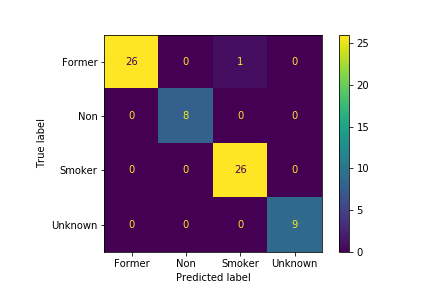
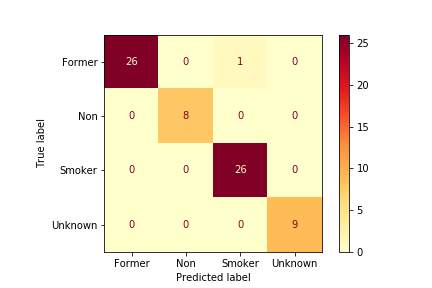
eval edits

diff --git a/eval.py b/eval.py
@@ -1,10 +1,21 @@
 # Evaluate accuracy, precision, recall, and F1 of smokerstatus.py
+
 from sklearn.metrics import accuracy_score, precision_score, recall_score, f1_score
-# from sklearn.metrics import classification_report TRY THIS LATER
+from sklearn.metrics import classification_report
+from sklearn.metrics import confusion_matrix, ConfusionMatrixDisplay
+import matplotlib.pyplot as plt
+from sklearn.metrics import balanced_accuracy_score 
+
+import pandas as pd
 
 
 # import functions
 # from smokerstatus import get_gold
+
+# export statistics as text file
+    # if possible, take all the incorrect instances and include in text file
+
+    # txt file name as csvname-eval.txt
 
 def evaluate_fst(gold_labels, preds, datacsv):
     """
@@ -34,24 +45,16 @@ def evaluate_fst(gold_labels, preds, datacsv):
 
     # --- begin calculations ---
 
-    # accuracy (normalize = True --> fraction of correctly classified samples, 
-    #   vs False -->  number of correctly classified samples)
-    accuracy = accuracy_score(gold_statuses, pred_statuses)
-
-    # balanced accuracy score
-        # average of recall obtained on each class
-        # ** is this appropriate? think about this 
-    # balanced_accuracy = balanced_accuracy_score(gold_statuses, pred_statuses)
-
     # confusion matrix
     cm = confusion_matrix(gold_statuses, pred_statuses)
 
     disp = ConfusionMatrixDisplay(confusion_matrix = cm, 
                     display_labels = ['Former', 'Non', 'Smoker', 'Unknown'])
-    disp.plot() # necessary?
+    disp.plot(cmap="YlOrRd") 
 
+    # save confusion matrix
     data_name = datacsv[:-4]
-    cm_path = data + '-cm.png'
+    cm_path = data_name + '-cm.png'
     plt.savefig(cm_path)
 
     # classification report - precision, recall, F1, support (# of samples for each class)
@@ -66,25 +69,69 @@ def evaluate_fst(gold_labels, preds, datacsv):
                                      target_names = label_names,
                                      output_dict = True)
     classreport_df = pd.DataFrame.from_dict(class_report_dict).transpose()
-    cr_path = data + '-classreport.csv'
+    cr_path = data_name + '-classreport.csv'
     classreport_df.to_csv(cr_path, index=False)
 
+    print('Exported classification report to ', cr_path)
 
+    # accuracy (normalize = True --> fraction of correctly classified samples, 
+        # vs False -->  number of correctly classified samples)
+    # accuracy = accuracy_score(gold_statuses, pred_statuses)
+
+    # balanced accuracy score
+        # average of recall obtained on each class
+        # ** is this appropriate? think about this 
+    # balanced_accuracy = balanced_accuracy_score(gold_statuses, pred_statuses)
+      
     # precision
         # true positives / (true positives + false positives)
         # ability not to label as positive a sample that is negative
+        # micro: globally --> total true positives, false negatives, and false positives
+        # macro: each label --> unweighted mean (doesn't consider label imbalance)
+        # weighted: metrics for each label, average weighted by support 
+        #       --> F-score not btwn precision&recall
     # precision = precision_score(gold_statuses, pred_statuses, average=None)
 
     # recall
 
     # F1
 
-# print on terminal statistics
-
-# export statistics as text file
-    # if possible, take all the incorrect instances and include in text file
-
-    # txt file name as csvname-eval.txt
-
 # print all wrong instances in .csv
     # gold, pred, identifier
+
+def get_wrong_labels(gold_labels, preds, datacsv):
+    """
+    Identify instances that are labelled wrong and what they were labelled. 
+
+    Args:
+        - gold_labels - (type dict) {patient-identifier: status, patient-identifier: status...}
+        - preds - (type dict) {patient-identifier: predicted-status, ...}
+    
+    Returns:
+        - exports .csv file (gold, predicted, identifier/row_id)
+    """
+
+    incorrectly_labelled = []
+
+    for identifier in gold_labels.keys():
+
+        truth = gold_labels[identifier]
+        pred = preds[identifier]
+
+        # if wrong prediction
+        if truth != pred:
+            row = (truth, pred, identifier)
+            incorrectly_labelled.append(row)
+    
+    wrong_labels_df = pd.Dataframe(incorrectly_labelled, columns = ['gold', 'predicted', 'identifier'])
+
+    # export to csv file
+    data_name = datacsv[:-4]
+    wrong_labels_path = data_name + '-wronglabels.csv'
+    wrong_labels_df.to_csv(wrong_labels_path, index=False)
+
+    print(*incorrectly_labelled, sep="\n")
+
+
+
+

diff --git a/README.md b/README.md
@@ -7,4 +7,5 @@
 
 #### References 
 - on [Multi-label Model Evaluation](https://www.kaggle.com/kmkarakaya/multi-label-model-evaluation)
-- on [Multi-Class Metrics](https://towardsdatascience.com/multi-class-metrics-made-simple-part-i-precision-and-recall-9250280bddc2)
+- on [Multi-Class Metrics](https://towardsdatascience.com/multi-class-metrics-made-simple-part-i-precision-and-recall-9250280bddc2), [PT.II](https://towardsdatascience.com/multi-class-metrics-made-simple-part-ii-the-f1-score-ebe8b2c2ca1)
+- [sklearn Metrics and Scoring](https://scikit-learn.org/stable/modules/model_evaluation.html#classification-metrics)
